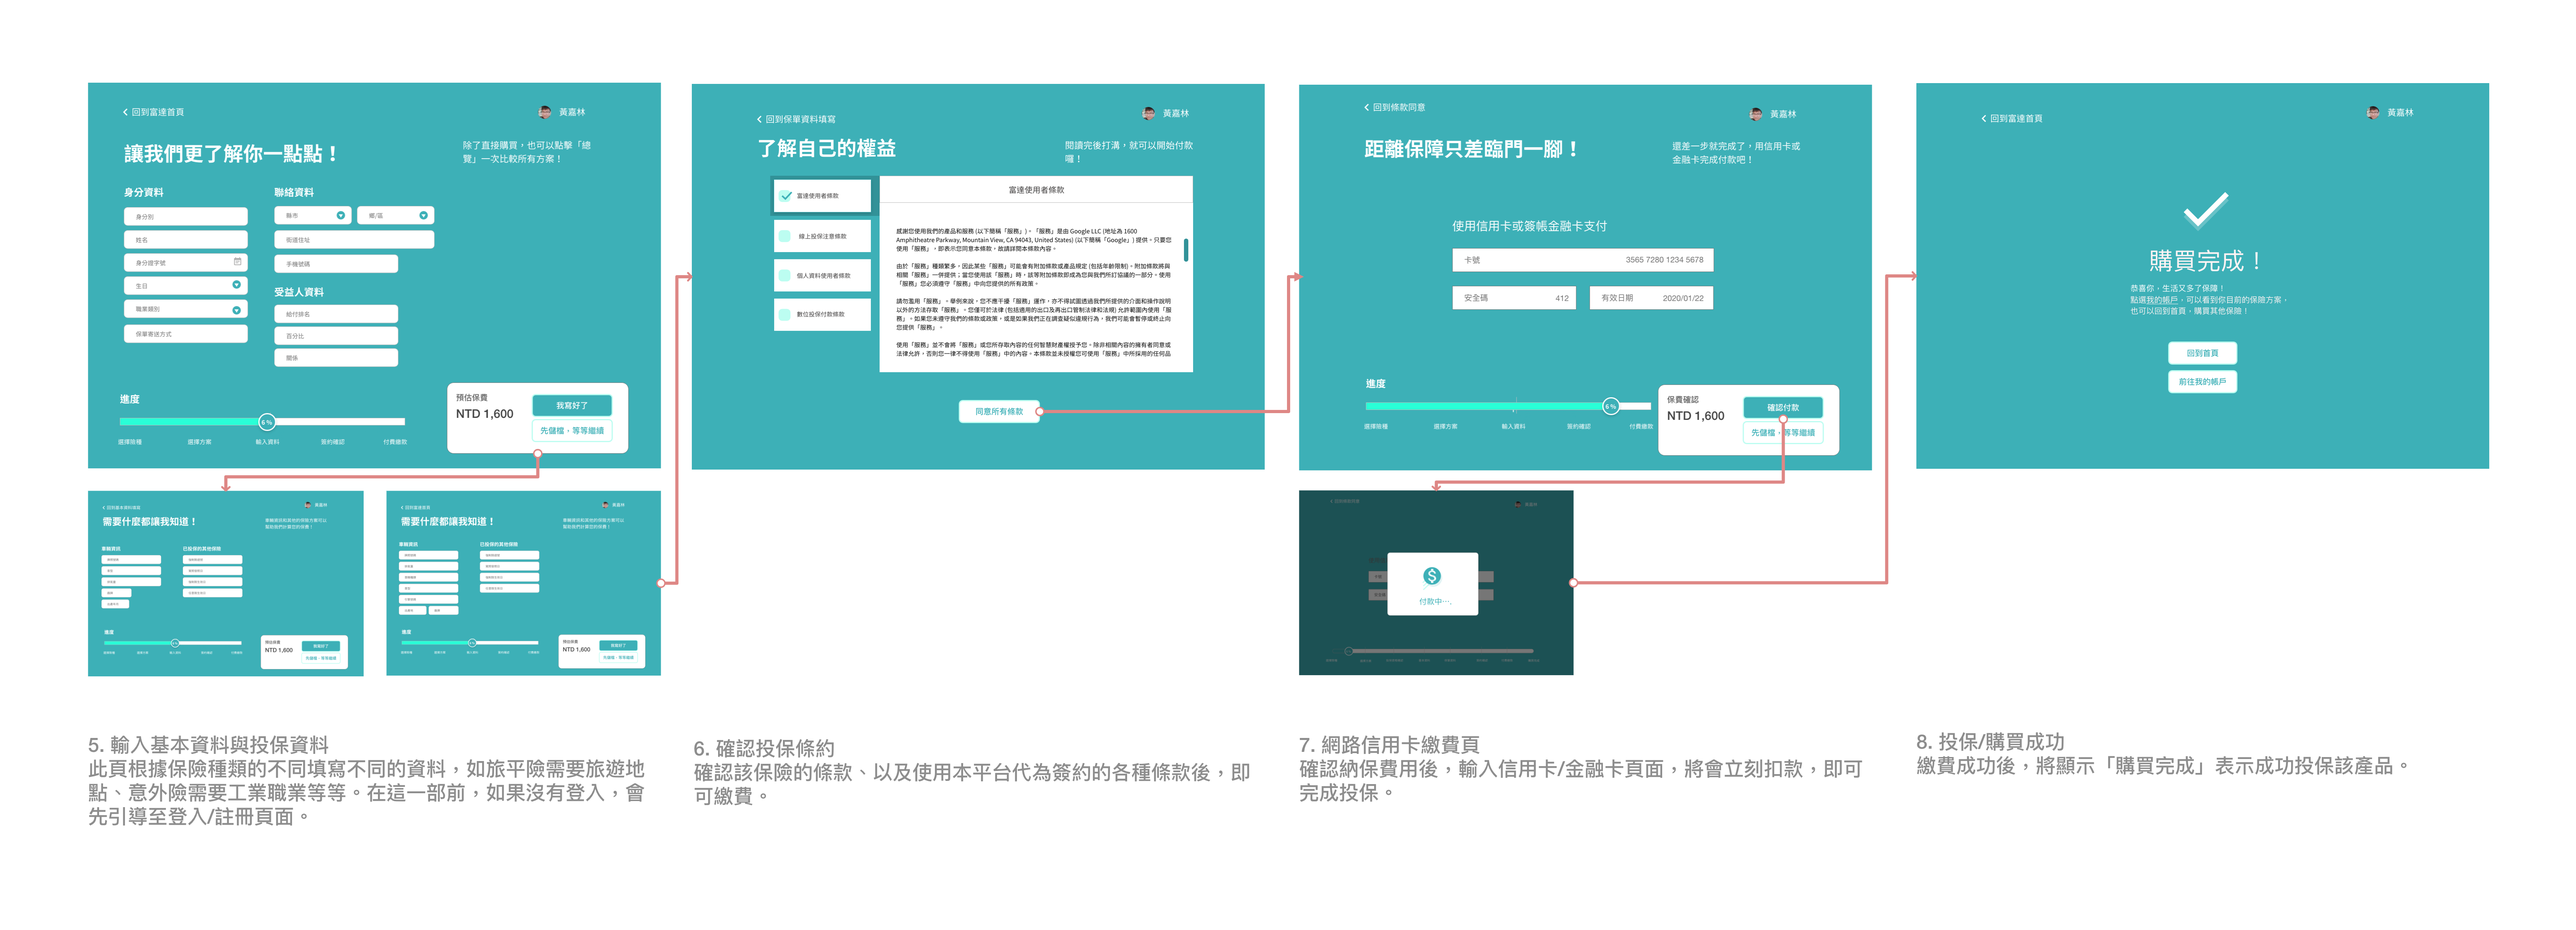
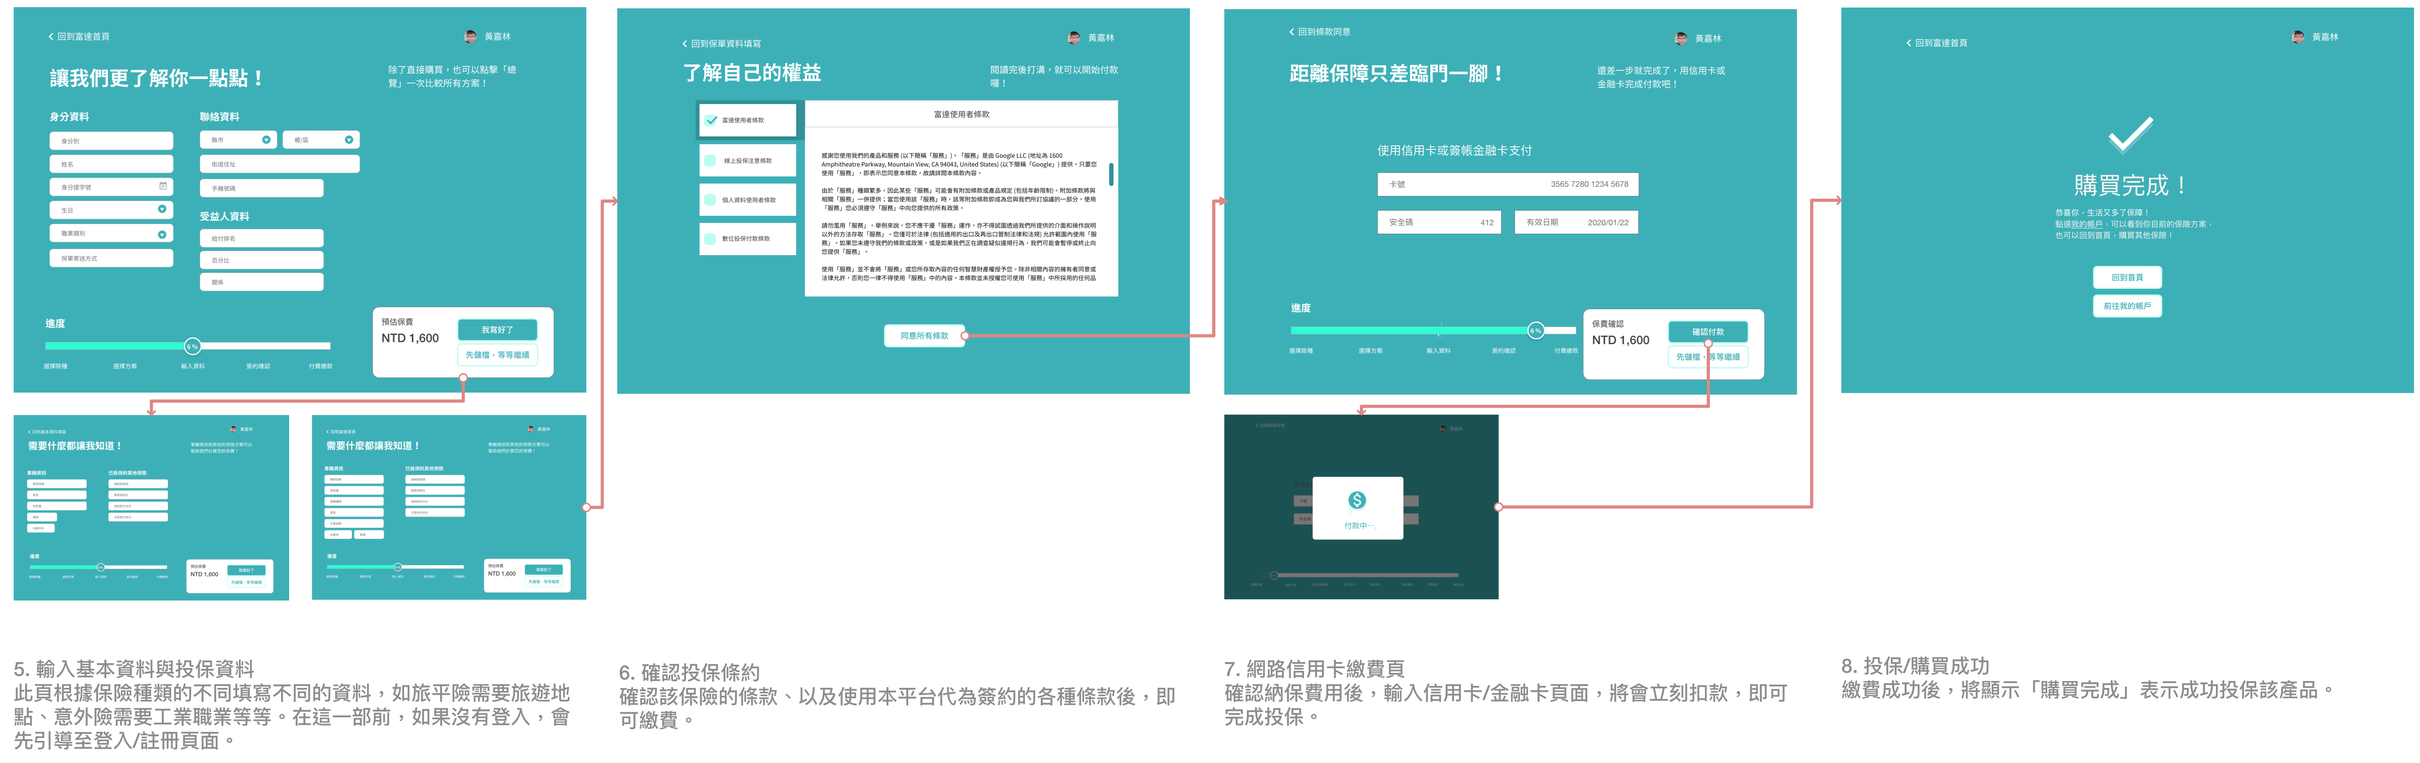
Site updated: 2020-04-21 21:29:20

diff --git a/2020/04/01/fortuna-online-insurence-web-ui-md/index.html b/2020/04/01/fortuna-online-insurence-web-ui-md/index.html
@@ -132,11 +132,11 @@
 
 <!-- Content -->
 <link rel="stylesheet" type="text/css" href="https://cdn.jsdelivr.net/lightgallery.js/1.0.1/css/lightgallery.min.css" /><div class=".article-gallery"<h2 id="修訂筆記"><a href="#修訂筆記" class="headerlink" title="修訂筆記"></a>修訂筆記</h2><ul>
-<li>目前還缺：Final Design 合成 </li>
-<li>設計過程圖</li>
+<li><input checked="" disabled="" type="checkbox"> 目前還缺：Final Design 合成 </li>
+<li><input checked="" disabled="" type="checkbox"> 設計過程圖</li>
 <li>合成圖文案</li>
 <li>修改內容文案通順性—連接性</li>
-<li>缺操作介面圖 X3</li>
+<li><input checked="" disabled="" type="checkbox"> 缺操作介面圖 X3</li>
 </ul>
 <hr>
 <a href="/image/fortuna/FIUI_Cover.png" class="gallery-item"><img id="pageTop" class= "image main" src="/image/fortuna/FIUI_Cover.png"></a>
@@ -171,7 +171,7 @@
 </br>
 
 <h1 id="Prototype-Iteration｜原型迭代"><a href="#Prototype-Iteration｜原型迭代" class="headerlink" title="Prototype Iteration｜原型迭代"></a>Prototype Iteration｜原型迭代</h1><p>在介面迭代的兩個月中，介面從 Functional Map 發展至 UI Flow 與 Wireframe。建立以對話式的介面流程，一步一步帶領使用者探索適合自己的保險方案，並加以購買。</p>
-<a href="/image/fortuna/userflow.png" class="gallery-item"><img class= "image main" src="/image/fortuna/userflow.png"></a>
+<a href="/image/fortuna/FIUI_UIFlow.png" class="gallery-item"><img class= "image main" src="/image/fortuna/FIUI_UIFlow.png"></a>
 
 <a href="/image/fortuna/FIUI_WIreframe.png" class="gallery-item"><img class= "image main" src="/image/fortuna/FIUI_WIreframe.png"></a>
 

diff --git a/archives/2019/03/index.html b/archives/2019/03/index.html
@@ -129,12 +129,12 @@
 
         
             <li>
-    <a href="/2020/04/06/bobotabk-ui-design/">BoboTank 異星坦克：電玩介面設計</a>
+    <a href="/2019/03/31/about-me/">關於黃嘉旭</a>
 </li>
 
         
             <li>
-    <a href="/2019/03/31/about-me/">關於黃嘉旭</a>
+    <a href="/2020/04/06/bobotabk-ui-design/">BoboTank 異星坦克：電玩介面設計</a>
 </li>
 
         
@@ -144,12 +144,12 @@
 
         
             <li>
-    <a href="/2020/04/08/taiwan-voting-machine-usibility-research/">中選會電子公投易用性研究：創造最適台灣的投票系統</a>
+    <a href="/2020/03/06/visual-design-collection/">視覺設計集</a>
 </li>
 
         
             <li>
-    <a href="/2020/03/06/visual-design-collection/">視覺設計集</a>
+    <a href="/2020/04/08/taiwan-voting-machine-usibility-research/">中選會電子公投易用性研究：創造最適台灣的投票系統</a>
 </li>
 
         

diff --git a/archives/2019/index.html b/archives/2019/index.html
@@ -129,12 +129,12 @@
 
         
             <li>
-    <a href="/2020/04/06/bobotabk-ui-design/">BoboTank 異星坦克：電玩介面設計</a>
+    <a href="/2019/03/31/about-me/">關於黃嘉旭</a>
 </li>
 
         
             <li>
-    <a href="/2019/03/31/about-me/">關於黃嘉旭</a>
+    <a href="/2020/04/06/bobotabk-ui-design/">BoboTank 異星坦克：電玩介面設計</a>
 </li>
 
         
@@ -144,12 +144,12 @@
 
         
             <li>
-    <a href="/2020/04/08/taiwan-voting-machine-usibility-research/">中選會電子公投易用性研究：創造最適台灣的投票系統</a>
+    <a href="/2020/03/06/visual-design-collection/">視覺設計集</a>
 </li>
 
         
             <li>
-    <a href="/2020/03/06/visual-design-collection/">視覺設計集</a>
+    <a href="/2020/04/08/taiwan-voting-machine-usibility-research/">中選會電子公投易用性研究：創造最適台灣的投票系統</a>
 </li>
 
         

diff --git a/archives/2020/03/index.html b/archives/2020/03/index.html
@@ -129,12 +129,12 @@
 
         
             <li>
-    <a href="/2020/04/06/bobotabk-ui-design/">BoboTank 異星坦克：電玩介面設計</a>
+    <a href="/2019/03/31/about-me/">關於黃嘉旭</a>
 </li>
 
         
             <li>
-    <a href="/2019/03/31/about-me/">關於黃嘉旭</a>
+    <a href="/2020/04/06/bobotabk-ui-design/">BoboTank 異星坦克：電玩介面設計</a>
 </li>
 
         
@@ -144,12 +144,12 @@
 
         
             <li>
-    <a href="/2020/04/08/taiwan-voting-machine-usibility-research/">中選會電子公投易用性研究：創造最適台灣的投票系統</a>
+    <a href="/2020/03/06/visual-design-collection/">視覺設計集</a>
 </li>
 
         
             <li>
-    <a href="/2020/03/06/visual-design-collection/">視覺設計集</a>
+    <a href="/2020/04/08/taiwan-voting-machine-usibility-research/">中選會電子公投易用性研究：創造最適台灣的投票系統</a>
 </li>
 
         

diff --git a/archives/2020/04/index.html b/archives/2020/04/index.html
@@ -129,12 +129,12 @@
 
         
             <li>
-    <a href="/2020/04/06/bobotabk-ui-design/">BoboTank 異星坦克：電玩介面設計</a>
+    <a href="/2019/03/31/about-me/">關於黃嘉旭</a>
 </li>
 
         
             <li>
-    <a href="/2019/03/31/about-me/">關於黃嘉旭</a>
+    <a href="/2020/04/06/bobotabk-ui-design/">BoboTank 異星坦克：電玩介面設計</a>
 </li>
 
         
@@ -144,12 +144,12 @@
 
         
             <li>
-    <a href="/2020/04/08/taiwan-voting-machine-usibility-research/">中選會電子公投易用性研究：創造最適台灣的投票系統</a>
+    <a href="/2020/03/06/visual-design-collection/">視覺設計集</a>
 </li>
 
         
             <li>
-    <a href="/2020/03/06/visual-design-collection/">視覺設計集</a>
+    <a href="/2020/04/08/taiwan-voting-machine-usibility-research/">中選會電子公投易用性研究：創造最適台灣的投票系統</a>
 </li>
 
         

diff --git a/archives/2020/index.html b/archives/2020/index.html
@@ -129,12 +129,12 @@
 
         
             <li>
-    <a href="/2020/04/06/bobotabk-ui-design/">BoboTank 異星坦克：電玩介面設計</a>
+    <a href="/2019/03/31/about-me/">關於黃嘉旭</a>
 </li>
 
         
             <li>
-    <a href="/2019/03/31/about-me/">關於黃嘉旭</a>
+    <a href="/2020/04/06/bobotabk-ui-design/">BoboTank 異星坦克：電玩介面設計</a>
 </li>
 
         
@@ -144,12 +144,12 @@
 
         
             <li>
-    <a href="/2020/04/08/taiwan-voting-machine-usibility-research/">中選會電子公投易用性研究：創造最適台灣的投票系統</a>
+    <a href="/2020/03/06/visual-design-collection/">視覺設計集</a>
 </li>
 
         
             <li>
-    <a href="/2020/03/06/visual-design-collection/">視覺設計集</a>
+    <a href="/2020/04/08/taiwan-voting-machine-usibility-research/">中選會電子公投易用性研究：創造最適台灣的投票系統</a>
 </li>
 
         

diff --git a/archives/index.html b/archives/index.html
@@ -129,12 +129,12 @@
 
         
             <li>
-    <a href="/2020/04/06/bobotabk-ui-design/">BoboTank 異星坦克：電玩介面設計</a>
+    <a href="/2019/03/31/about-me/">關於黃嘉旭</a>
 </li>
 
         
             <li>
-    <a href="/2019/03/31/about-me/">關於黃嘉旭</a>
+    <a href="/2020/04/06/bobotabk-ui-design/">BoboTank 異星坦克：電玩介面設計</a>
 </li>
 
         
@@ -144,12 +144,12 @@
 
         
             <li>
-    <a href="/2020/04/08/taiwan-voting-machine-usibility-research/">中選會電子公投易用性研究：創造最適台灣的投票系統</a>
+    <a href="/2020/03/06/visual-design-collection/">視覺設計集</a>
 </li>
 
         
             <li>
-    <a href="/2020/03/06/visual-design-collection/">視覺設計集</a>
+    <a href="/2020/04/08/taiwan-voting-machine-usibility-research/">中選會電子公投易用性研究：創造最適台灣的投票系統</a>
 </li>
 
         
